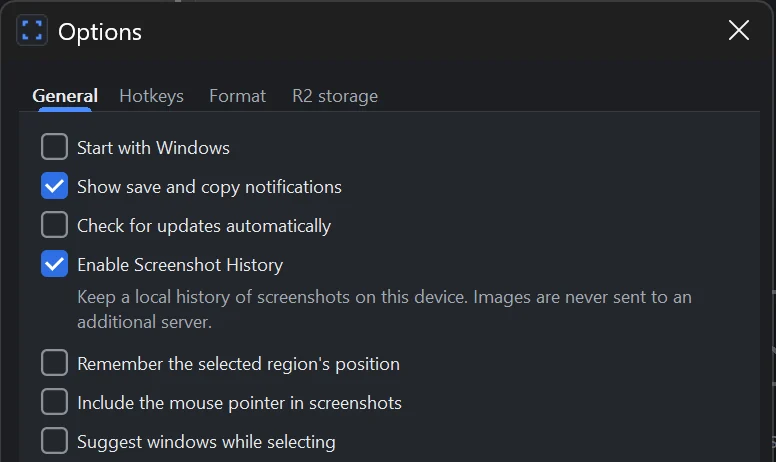
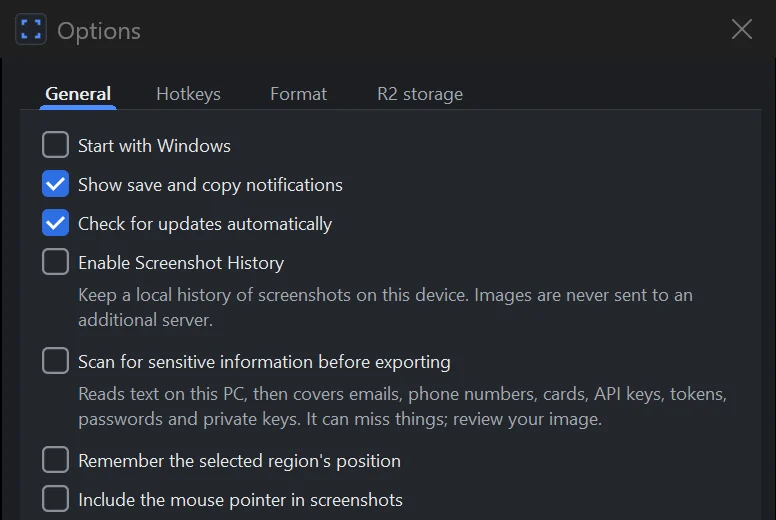
docs: options screenshots for website, decision 157, changelog, checklist

Changed region(s): [[0.0309, 0.1515, 0.9278, 1.0], [0.0, 0.0, 1.0, 1.0]]

diff --git a/website/index.html b/website/index.html
@@ -519,7 +519,7 @@
           </div>
           <figure class="feature-visual">
             <div class="shot-frame narrow">
-              <img data-shot="options" src="/img/options-en.webp" width="776" height="462" loading="lazy" decoding="async" alt="darkshot's Options window, General tab, listing Start with Windows, notifications, update check, history, remembered region, mouse pointer and window suggestion options." data-i18n-attr="alt:fh.alt" />
+              <img data-shot="options" src="/img/options-en.webp" width="776" height="520" loading="lazy" decoding="async" alt="darkshot's Options window, General tab, listing Start with Windows, notifications, update check, history, sensitive-information scan, remembered region, mouse pointer and window suggestion options." data-i18n-attr="alt:fh.alt" />
             </div>
             <figcaption class="fig-note" data-i18n="fh.note">Real screenshot of the Options window (General tab).</figcaption>
           </figure>

diff --git a/memory-bank/decisions.md b/memory-bank/decisions.md
@@ -160,3 +160,4 @@ Quyết định đã chốt. Không bàn lại nếu chủ dự án không yêu 
 | 154 | 2026-11-22 | KHÔNG DÙNG model `fable` trong bất kỳ tình huống nào: làm, sửa, rà soát, rà soát toàn đợt. Việc khó hoặc rủi ro cao (bảo mật, đồng thời, toàn vẹn dữ liệu) và rà soát cần model mạnh dùng `opus`; kế hoạch hay gói task cũ ghi `fable` thì đổi sang `opus` khi chạy. Thay phần `fable` của quyết định 95 | Yêu cầu chủ dự án | Chủ dự án |
 | 155 | 2026-11-22 | Privacy Shield quét hai lượt mỗi dải khi dải có đường kẻ bảng (Task 137): lượt một OCR bản gốc; `privacy::rules::strip_rules` (lõi thuần) tìm đường ngang/dọc dày 1–3 px, dài ≥ 40 px (khe ≤ 8 px, phủ ≥ 4/5), khác hẳn độ sáng cả hai bên còn hai bên gần nhau (chênh ≥ 32, hai bên lệch ≤ 16), thay bằng trung bình màu hai bên trên một bản sao; có đường kẻ thì OCR thêm bản sao (cùng engine, tỉ lệ, khung tọa độ), dò cả hai, gộp bằng `merge_tile`/`normalize`. Lỗi/hết hạn ở lượt nào cũng là lỗi quét. Hạn mỗi lượt nhận dạng vẫn 20 s; hạn cổng thành 40 s × dải + 10 s. Email: từ trước `@` cách một space, chỉ chữ thường/số/`._%+-` (≥ 2 ký tự), khe khung từ < 0,35 × cao dòng (ngưỡng ghép từ sẵn có, không phải 0,6 như ví dụ trong gói) → mở rộng vùng che, Trung bình. Không dùng luật "xóa đoạn tối dài" (xóa cả nền tối) | Chủ dự án báo 14/14 email trong bảng Excel không được che (OCR bỏ `@` và chữ có phần xuống dưới vì đường kẻ sát chân chữ); ảnh tổng hợp tái hiện 0/14 → 14/14 | Chủ dự án duyệt hướng sửa |
 | 156 | 2026-11-22 | Phát hành v0.6.0 từ `main` sau PR #7: gồm đợt 20 (Ghi GIF, tối đa 60 s) và đợt 21 (Privacy Shield, mặc định tắt) cùng Task 137. Số giữa tăng vì có tính năng mới. Mục "Chưa phát hành" của CHANGELOG thành `[0.6.0] - 2026-11-22`; README "Tải về" và kích thước (2.470.400 byte) cập nhật; website đã có mục Ghi GIF và Privacy Shield, không đổi (số phiên bản tự lấy từ GitHub). Tài sản như v0.5.0: zip (exe + README), `darkshot.exe`, `SHA256SUMS.txt`. Exe chưa ký số | Chủ dự án: "phát hành" | Chủ dự án |
+| 157 | 2026-11-22 | Dải tab của Tùy chọn có đệm ngang `TAB_PAD_X` = 16 DIP mỗi bên (`TCM_SETPADDING`, đặt sau khi chèn mục; đệm dọc giữ nguyên bằng cách đo chiều cao mục rồi bù `cy`, nên khung bên dưới không xê dịch). Trước đó dùng đệm mặc định 6 px, chữ hai tab cách 12–15 DIP (tab chọn in đậm nên gần chạm tab kế). Mục `TAB_ITEM_PAD` của bố cục = 2 × `TAB_PAD_X`, nên dải vẫn vừa một hàng (widen_for_tabs). Đo (150 %, EN/VI, xấu nhất = cả hai tab đậm): khoảng trống 42–46 px = 28–31 DIP (trước 18–22 px). Kiểm thử `#[ignore]` `options_tab_gaps` yêu cầu ≥ 24 DIP; `webshot_options` xuất PNG Tùy chọn cho hai ngôn ngữ. Ảnh `website/public/img/options-{en,vi}.webp` tạo lại từ `webshot_options` (776×520, chất lượng 86, thêm ô quét thông tin nhạy cảm), thư mục lưu giả `C:/Screenshots`. |

diff --git a/website/README.md b/website/README.md
@@ -64,7 +64,7 @@ website/
 ## Minh họa và ảnh chụp
 
 - Hai ảnh chụp thật: cửa sổ Lịch sử (dữ liệu mẫu giữ chỗ) và cửa sổ Tùy chọn (tab Thông thường, đã cắt bỏ ô Thư mục lưu vì chứa đường dẫn máy). Nguồn: `target/demo7/screens`, `target/demo8/screens`, `target/demo9/screens` (Lịch sử có nút Ghim).
-- Ảnh chụp thật (Task 108): `pin.webp` (một ngôn ngữ, cửa sổ ghim không có chữ giao diện), `ocr-*.webp`, `steps-*.webp`, `scroll-*.webp`. Dữ liệu mẫu bịa vẽ bằng mã (biểu đồ "Weekly sign-ups", chữ "Quarterly report summary", hộp thoại "Example settings", bài viết "Example Journal"). Tạo lại: `$env:DARKSHOT_WEBSHOTS = "<repo>\target\webshots"; cargo test -p darkshot-windows webshot_ -- --ignored --test-threads=1` (PrintWindow cửa sổ của chính tiến trình kiểm thử, hồ sơ tạm, không chuột/phím, không clipboard), rồi đổi PNG sang WebP (rộng 1300 px; cuộn 720 px; chất lượng 86).
+- Ảnh chụp thật (Task 108): `pin.webp` (một ngôn ngữ, cửa sổ ghim không có chữ giao diện), `ocr-*.webp`, `steps-*.webp`, `scroll-*.webp`. Dữ liệu mẫu bịa vẽ bằng mã (biểu đồ "Weekly sign-ups", chữ "Quarterly report summary", hộp thoại "Example settings", bài viết "Example Journal"). Tạo lại: `$env:DARKSHOT_WEBSHOTS = "<repo>\target\webshots"; cargo test -p darkshot-windows webshot_ -- --ignored --test-threads=1` (PrintWindow cửa sổ của chính tiến trình kiểm thử, hồ sơ tạm, không chuột/phím, không clipboard), rồi đổi PNG sang WebP (rộng 1300 px; cuộn 720 px; chất lượng 86). Ảnh `options-*.webp` (Tùy chọn, tab Thông thường, thư mục lưu giả `C:/Screenshots`) tạo từ `webshot_options` (Task 139): `cargo test -p darkshot-windows webshot_options -- --ignored --test-threads=1`, cắt `crop=776:520:0:0` từ PNG cửa sổ, rồi `ffmpeg -i options-en.png -vf crop=776:520:0:0 -c:v libwebp -quality 86 options-en.webp`; đổi `width`/`height` và `alt` trong `index.html` + `vi.json` nếu đổi giao diện.
 - Mọi hình còn lại (lớp phủ chụp, thanh công cụ, đánh dấu, che thông tin, bắt cửa sổ, thanh hành động) là SVG dựng lại theo bố cục và màu thật trong `crates/darkshot-core/src/theme.rs`, luôn kèm chú thích "Minh họa". Nội dung mẫu (hóa đơn Acme, email `jane.doe@example.com`, khóa `sk_test_EXAMPLE_0000`, link `img.example.com`) đều bịa, không dữ liệu thật.
 - Cần ảnh chụp thật cho lớp phủ: chụp bằng bản build thật rồi thay `scene.ts` trong từng mục (không dùng ảnh có màn hình riêng của ai).
 

diff --git a/docs/testing/manual-checklist.md b/docs/testing/manual-checklist.md
@@ -629,3 +629,4 @@ Mọi dòng để `[ ]` cho đến khi có người thử; ghi kết quả và n
 - [ ] DPI 100/125/150/200 %, kéo cửa sổ Kiểm tra giữa hai màn hình khác DPI, thu nhỏ tối thiểu; tab Chung của Tùy chọn không tràn.
 - [ ] Kéo vùng che bằng chuột thật và cuộn danh sách dài (nhiều phát hiện).
 - Ghi chú: ảnh PrintWindow của cửa sổ Kiểm tra ở bản release ra trống (cờ loại khỏi ảnh chụp); muốn chụp lại thì dùng bản kiểm thử.
+- [ ] Task 139: Tùy chọn ở DPI 100/125/150/200 %, hai ngôn ngữ: chữ bốn tab cách nhau rõ ràng (không liền nhau), chữ đậm của tab chọn không sát tab kế; gạch dưới và nền hover không chạm tab bên cạnh; bốn tab nằm trọn một hàng (không mũi tên cuộn); Ctrl+Tab, mũi tên, bấm chuột đổi tab đúng.

diff --git a/CHANGELOG.md b/CHANGELOG.md
@@ -4,6 +4,10 @@ Mọi thay đổi đáng chú ý của darkshot, mới nhất ở trên. Phiên 
 
 ## [Chưa phát hành]
 
+### Sửa lỗi
+
+- Dải tab của Tùy chọn có khoảng cách: chữ các tab (Thông thường, Phím tắt, Định dạng, Lưu trữ R2) không còn liền nhau, chữ đậm của tab đang chọn không sát tab kế bên, ở cả hai ngôn ngữ và mọi mức DPI.
+
 ## [0.6.0] - 2026-11-22
 
 ### Mới
